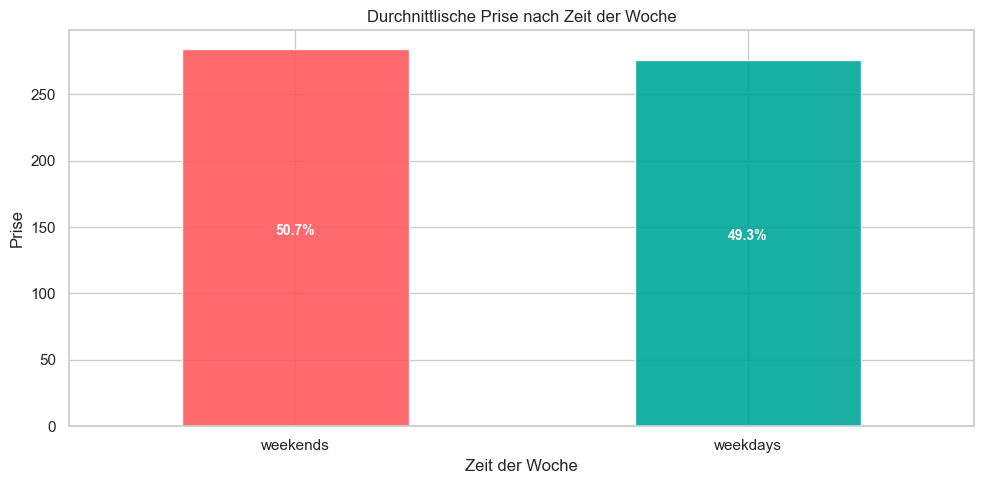
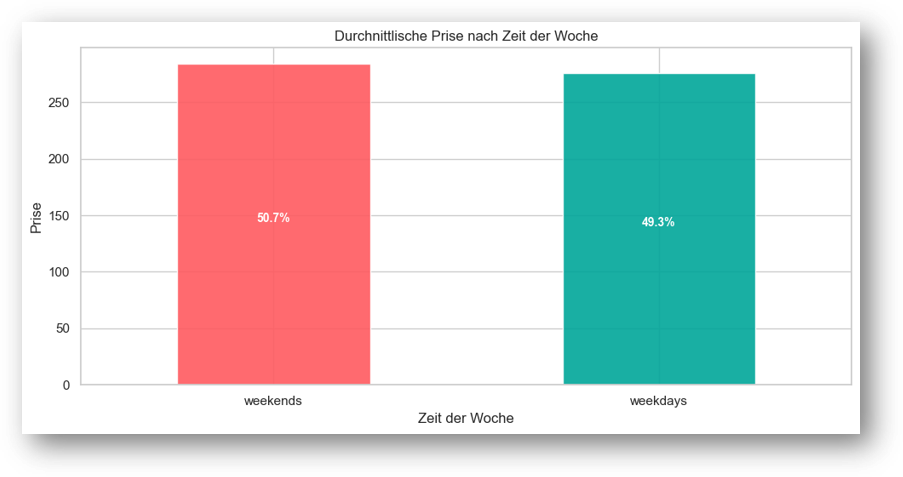
Update README with visualizations

diff --git a/README.md b/README.md
@@ -97,7 +97,9 @@ Analyse der Verteilung von Airbnb-Preisen sowie Identifikation von Ausreißern.
 
 Vergleich verschiedener Marktsegmente und Unterkunftsarten.
 
-![Marktanalyse](images/market_analysis.png)
+![Marktanalyse](images/market_analysis_1.png)
+
+![Marktanalyse](images/market_analysis_2.png)
 
 ---
 
@@ -113,7 +115,9 @@ Untersuchung des Zusammenhangs zwischen Unterkunftsgröße und Preisniveau.
 
 Analyse von Gastgebermerkmalen und deren Einfluss auf die Preisgestaltung.
 
-![Gastgeberanalyse](images/host_analysis.png)
+![Gastgeberanalyse](images/host_analysis_1.png)
+
+![Gastgeberanalyse](images/host_analysis_2.png)
 
 ---
 